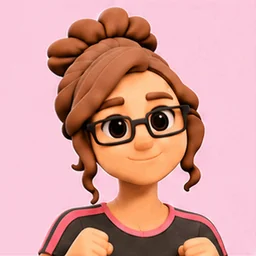
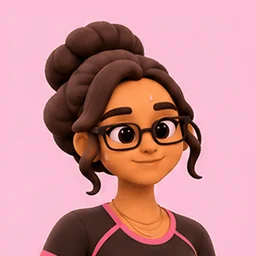
Kiru colour redo: gym/workout in kiru-v2 colours
Claude-Session: https://claude.ai/code/session_01M9MLSzTgGmRpDx4quWz9qx

diff --git a/design/gen/status.md b/design/gen/status.md
@@ -156,7 +156,7 @@ Generated in ChatGPT, checked frame by frame, converted to 256x256 animated WebP
 | kiru/home2/sleep | done | 1 | colour redo Nov 19 (sprite sheet, kiru-v2 colours): asleep on a pillow with glasses on, pink blanket; round bubbles frames 5-11 |
 | kiru/gym/idle | done | 1 | colour redo Nov 19 (sprite sheet, kiru-v2 colours): retry 2 (first came out as a tank top): black sports t-shirt with pink trims; aligned to frame 0 (sheet drifted up to 7 px); two blinks |
 | kiru/gym/wave | done | 1 | colour redo Nov 19 (sprite sheet, kiru-v2 colours): retry 2 (first came out as a tank top): black sports t-shirt with pink trims; same hand waves on the left; white motion lines frames 4-6; two blinks |
-| kiru/gym/workout | done | 0 | Kiru v2 look; bounce moves the head up to 8 px (intended) |
+| kiru/gym/workout | done | 1 | colour redo Nov 19 (sprite sheet, kiru-v2 colours): black sports t-shirt with pink trims; arm pumps with a bounce (head moves up to 8 px, intended, sheet as drawn) |
 | kiru/party/idle | done | 0 | Kiru v2 look |
 | kiru/party/wave | done | 0 | Kiru v2 look; small white motion lines by the hand; 4 px edge trim for a bottom strip |
 | kiru/party/dance | done | 0 | Kiru v2 look; sway moves the head up to 11 px; the bun touches the top edge in frames 3-4; small snap lines |
@@ -191,7 +191,7 @@ Reference measurements (tools: /tmp/tools/colour.py; median Lab over sampled fra
 |---|---|---|---|---|
 | kiru/gym/idle | done | 2.5 | 4.1 | retry 2 (first came out as a tank top): black sports t-shirt with pink trims; aligned to frame 0 (sheet drifted up to 7 px); two blinks |
 | kiru/gym/wave | done | 3.8 | 3.1 | retry 2 (first came out as a tank top): black sports t-shirt with pink trims; same hand waves on the left; white motion lines frames 4-6; two blinks |
-| kiru/gym/workout | pending |  |  | old: skin dE 13.8 hair dE 24.1 |
+| kiru/gym/workout | done | 2.5 | 4.5 | black sports t-shirt with pink trims; arm pumps with a bounce (head moves up to 8 px, intended, sheet as drawn) |
 | kiru/home/cook | done | 1.3 | 1.6 | ONE wooden spoon in the same hand at the bottom edge, pot below the frame, faint steam on the right |
 | kiru/home/idle | done | 6.2 | 3.6 | pink floral nighty; blink frames 4-9; stable framing |
 | kiru/home/laugh | done | 3.1 | 2.0 | laugh: leans in and tilts back (figure up to 12 px higher and slightly larger in frames 6-8, sheet as drawn) |
